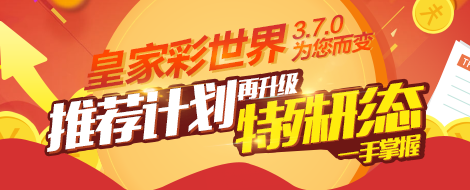
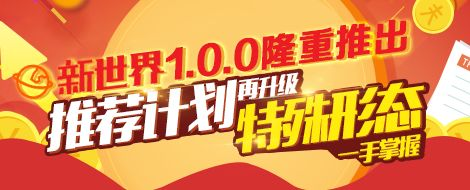
chang efor web

diff --git a/src/view/common/footer.html b/src/view/common/footer.html
@@ -2,14 +2,14 @@
     <div class="hj_public_foot_d">
         <div class="hj_public_foot_d1">
             <div class="leftContent">
-                <i>皇家彩世界</i>
+                <i>新世界</i>
                 <div class="leftContent_d">
                     <div class="lc_d">
                         <span class="lc_name">關于我們：</span>
                         <div class="lc_info">
-                            <a href="/official/193" rel="nofollow">免责声明</a>
-                            <a href="/official/194" rel="nofollow">法律声明</a>
-                            <a href="/help/" target="_blank">帮助中心</a>
+                            <a rel="nofollow">免责声明</a>
+                            <a rel="nofollow">法律声明</a>
+                            <a target="_blank">帮助中心</a>
                         </div>
                         <div class="hj_public_clearBoth"></div>
                     </div>
@@ -17,23 +17,23 @@
                         <span class="lc_name">相關産品：</span>
                         <div class="lc_info">
                             <a href="/zhibo/" target="_blank">開獎直播</a>
-                            <a href="/software/" target="_blank">軟件中心</a>
-                            <a href="/map.html" target="_blank">網站地圖</a>
+                            <a>軟件中心</a>
+                            <a>網站地圖</a>
                         </div>
                         <div class="hj_public_clearBoth"></div>
                     </div>
 
-                    <div class="lc_d">
-                        <span class="lc_name">交&nbsp;流&nbsp;群：</span>
-                        <div class="lc_info">
-                            <span>329235586</span>
-                            <span>220634190</span>
-                            <span>284202968</span>
-                            <span>98470270</span>
-                            <span>235983757<a href="http://shang.qq.com/wpa/qunwpa?idkey=87c5bcb73f504d114adcacdf867065d5f2fe749aae312b9b0a905e4956d6e3b0" rel="nofollow">加入</a></span>
-                        </div>
-                        <div class="hj_public_clearBoth"></div>
-                    </div>
+                    <!--<div class="lc_d">-->
+                        <!--<span class="lc_name">交&nbsp;流&nbsp;群：</span>-->
+                        <!--<div class="lc_info">-->
+                            <!--<span>329235586</span>-->
+                            <!--<span>220634190</span>-->
+                            <!--<span>284202968</span>-->
+                            <!--<span>98470270</span>-->
+                            <!--<span>235983757<a href="http://shang.qq.com/wpa/qunwpa?idkey=87c5bcb73f504d114adcacdf867065d5f2fe749aae312b9b0a905e4956d6e3b0" rel="nofollow">加入</a></span>-->
+                        <!--</div>-->
+                        <!--<div class="hj_public_clearBoth"></div>-->
+                    <!--</div>-->
                 </div>
             </div>
         </div>
@@ -60,29 +60,29 @@
                 </ul>
                 <div class="hj_public_clearBoth"></div>
             </div>
-            <div class="foot_d2_content">
-                <div class="Contact">
-                    <div class="PhoneNumber">
+            <!--<div class="foot_d2_content">-->
+                <!--<div class="Contact">-->
+                    <!--<div class="PhoneNumber">-->
 
-                        <p>國內: <span>400-654-9200</span></p>
-                        <p>境外: <span>00852-62104572</span></p>
-                    </div>
-                    <div class="time">
-                        <p>12小時尊貴服務</p>
-                        <p class="t_text">周一至周日: 9:30-凌晨02:00</p>
-                    </div>
-                </div>
-                <div class="rightContent">
-                    <a onclick="javascript:window.open('http://wpa.b.qq.com/cgi/wpa.php?ln=1&key=XzkzODE3MTczOF8zNzU4NzBfNDAwNjU0OTIwMF8yXw', '_blank', 'height=502, width=644,toolbar=no,scrollbars=no,menubar=no,status=no');" href="javascript:void(0);">
-                        <img src="/images/headfoot/hj_public_qq.jpg" alt="" />
-                    </a>
-                    <!-- BEGIN ProvideSupport.com Text Chat Link Code -->
+                        <!--<p>國內: <span>400-654-9200</span></p>-->
+                        <!--<p>境外: <span>00852-62104572</span></p>-->
+                    <!--</div>-->
+                    <!--<div class="time">-->
+                        <!--<p>12小時尊貴服務</p>-->
+                        <!--<p class="t_text">周一至周日: 9:30-凌晨02:00</p>-->
+                    <!--</div>-->
+                <!--</div>-->
+                <!--<div class="rightContent">-->
+                    <!--<a onclick="javascript:window.open('http://wpa.b.qq.com/cgi/wpa.php?ln=1&key=XzkzODE3MTczOF8zNzU4NzBfNDAwNjU0OTIwMF8yXw', '_blank', 'height=502, width=644,toolbar=no,scrollbars=no,menubar=no,status=no');" href="javascript:void(0);">-->
+                        <!--<img src="/images/headfoot/hj_public_qq.jpg" alt="" />-->
+                    <!--</a>-->
+                    <!--&lt;!&ndash; BEGIN ProvideSupport.com Text Chat Link Code &ndash;&gt;-->
 
-                    <!-- END ProvideSupport.com Text Chat Link Code -->
-                    <!-- WPA Button Begin -->
-                    <!-- WPA Button End -->
-                </div>
-            </div>
+                    <!--&lt;!&ndash; END ProvideSupport.com Text Chat Link Code &ndash;&gt;-->
+                    <!--&lt;!&ndash; WPA Button Begin &ndash;&gt;-->
+                    <!--&lt;!&ndash; WPA Button End &ndash;&gt;-->
+                <!--</div>-->
+            <!--</div>-->
         </div>
         <div class="hj_public_clearBoth"></div>
     </div>

diff --git a/src/view/index.html b/src/view/index.html
@@ -4,7 +4,7 @@
 <head>
     <title><%= include ./src/view/common/name.html =%>_北京赛车_pk10_北京赛车pk10开奖直播_北京赛车pk10开奖视频_北京赛车pk10开奖历史_开奖路珠走势_数据走势图_交流论坛</title>
     <meta name="keywords" content="<%= include ./src/view/common/name.html =%>，北京赛车pk10，北京赛车pk10技巧，北京赛车pk10技巧心得，北京赛车pk10开奖直播" />
-    <meta name="description" content="<%= include ./src/view/common/name.html =%>为彩民提供北京赛车pk10技巧,心得,开奖直播数据,还提供重庆时时彩、广东快乐十分、江西时时彩、新疆时时彩、天津时时彩、广东11选5、十一运夺金、江西11选5、快乐8等数据." />
+    <meta name="description" content="<%= include ./src/view/common/name.html =%>为彩民提供北京赛车pk10技巧,心得,开奖直播数据,还提供重庆时时彩、广东快乐十分、广东11选5、十一运夺金、快乐8等数据." />
 
     <meta name="baidu-site-verification" content="xA8Iz47tq9" />
 
@@ -45,7 +45,7 @@
                         <a href="/shishicai/" class="hotColorSpeed"><b><i class="hotIcon"></i>重庆时时彩</b></a>
                         <!-- <a href="/jsk3/"><b>江苏骰宝(快3)</b></a> -->
                         <a href="/xyft/"><b>幸运飞艇</b></a>
-                        <a href="/jxssc/"><b>江西时时彩</b></a>
+                        <!--<a href="/jxssc/"><b>江西时时彩</b></a>-->
                         <a href="/xync/"><b>幸运农场</b></a>
                         <a href="/shssl/"><b>上海时时乐</b></a>
                         <a href="/sdc/"><b>圣地彩</b></a>
@@ -322,19 +322,19 @@
                 <div id="caishijie_index_gpc" class="w245"></div>
                 <div id="caishijie_index_soft_s_bottom" class="sw245s" style="padding-top: 9px"></div>
             </div>
-            <div class="code">
-                <div class="img">
-                    <img src="/images/gzpt.png" />
-                </div>
-                <div class="text">
-                    <a href="/jiqiao/pk10/62886.html" target="_blank">
-                        <p>
-                            彩世界微信公众平台
-                        </p>
-                    </a>
-                    <span>高频彩数据查询、分析与预测工具，关注即免费使用！</span>
-                </div>
-            </div>
+            <!--<div class="code">-->
+                <!--<div class="img">-->
+                    <!--<img src="/images/gzpt.png" />-->
+                <!--</div>-->
+                <!--<div class="text">-->
+                    <!--<a href="/jiqiao/pk10/62886.html" target="_blank">-->
+                        <!--<p>-->
+                            <!--彩世界微信公众平台-->
+                        <!--</p>-->
+                    <!--</a>-->
+                    <!--<span>高频彩数据查询、分析与预测工具，关注即免费使用！</span>-->
+                <!--</div>-->
+            <!--</div>-->
         </div>
         <div class="clear">
         </div>

diff --git a/src/view/zhibo/index.html b/src/view/zhibo/index.html
@@ -27,7 +27,7 @@
 <div class="body-content">
     <div class="zhibo-title">
         <div class="name">
-            皇家开奖直播频道
+            <%= include ./src/view/common/name.html =%>开奖直播频道
         </div>
         <div class="share">
             <div>分享到：</div>
@@ -253,7 +253,7 @@
             <div class="detail">
                 <a href="/pk10/shipin/" target="_blank" class="lot-name">北京赛车PK10</a>
                 <div class="synopsis">
-                    北京赛车PK10开奖直播视频由香港皇家科技独立开发，开奖结果获取速度快、画面精美、过程刺激，并提供彩世界独家的精准PK10数据分析。
+                    北京赛车PK10开奖直播视频由<%= include ./src/view/common/name.html =%>独立开发，开奖结果获取速度快、画面精美、过程刺激，并提供彩世界独家的精准PK10数据分析。
                 </div>
                 <a href="/pk10/shipin/" target="_blank" class="play" title="北京赛车PK10开奖直播视频">观看开奖</a>
                 <span>距离下期开奖</span><span class="pk10-time time"></span><span>秒</span>
@@ -537,7 +537,7 @@
     <div class="zhibo-virtue">
         <div class="title"><%= include ./src/view/common/name.html =%>开奖直播四大优点：</div>
         <div class="span1">
-            皇家拥有十五年博彩行业程式、软件、数据开发经验，拥有一流的开发技术，迭代更新及时
+            <%= include ./src/view/common/name.html =%>拥有十五年博彩行业程式、软件、数据开发经验，拥有一流的开发技术，迭代更新及时
         </div>
         <div class="span2">
             不仅仅只是开奖直播视频，还是一个数据参考及时工具，部分彩种直播还可模拟开奖结果
@@ -546,7 +546,7 @@
             各彩种开奖直播视频画面精美，播放速度流畅，任何一个像素都是精品
         </div>
         <div class="span4">
-            皇家独家技术支撑，数据读取数据快，开奖结果早知道
+            <%= include ./src/view/common/name.html =%>独家技术支撑，数据读取数据快，开奖结果早知道
         </div>
     </div>
 </div>

diff --git a/src/view/common/navMenu.html b/src/view/common/navMenu.html
@@ -21,10 +21,9 @@
         <li>
             <a href="/zhibo/" id="nav06">开奖直播</a>
         </li>
-
-        <li>
-            <a href="http://www.1396mm.com" rel="nofollow" target="_blank" rel="nofollow" id="nav07">博世界</a>
-        </li>
+        <!--<li>-->
+            <!--<a href="http://www.1396mm.com" rel="nofollow" target="_blank" rel="nofollow" id="nav07">博世界</a>-->
+        <!--</li>-->
         <!-- <li style="position: relative; z-index: 999;" id="navklc">
             <img src="/images/stat/newicon02.png" style="position: absolute;right: 7px;top: 4px;" />
             <a href="http://www.1396klc.com/" class="soft rear" style="width: 117px;" target="_blank">皇家快乐彩 </a>
@@ -72,12 +71,12 @@
                     <img src="/images/nav/gdkl10.png" alt="广东快乐十分"/></i>
                 <b class="web_colorSpeedFont"><i class="web_colorSpeedHot"></i>广东快乐十分</b>
             </span>
-            <span class="web_colorSpeedLi">
-                <a href="/jxssc/"></a>
-                <i class="web_colorSpeedIcon">
-                    <img src="/images/nav/jxssc.png" alt="江西时时彩"/></i>
-                <b class="web_colorSpeedFont">江西时时彩</b>
-            </span>
+            <!--<span class="web_colorSpeedLi">-->
+                <!--<a href="/jxssc/"></a>-->
+                <!--<i class="web_colorSpeedIcon">-->
+                    <!--<img src="/images/nav/jxssc.png" alt="江西时时彩"/></i>-->
+                <!--<b class="web_colorSpeedFont">江西时时彩</b>-->
+            <!--</span>-->
             <!-- <span class="web_colorSpeedLi">
                 <a href="/tjssc/"></a>
                 <i class="web_colorSpeedIcon">

diff --git a/src/view/pk10/luzhulonghu/index.html b/src/view/pk10/luzhulonghu/index.html
@@ -1,9 +1,9 @@
 <!DOCTYPE HTML>
 <html xmlns:v="urn:schemas-microsoft-com:vml">
 <head>
-    <title>【北京赛车pk10龙虎路珠_龙虎路珠皇家彩】-<%= include ./src/view/common/name.html =%></title>
-    <meta name="keywords" content="北京赛车pk10龙虎路珠,龙虎路珠皇家彩" />
-    <meta name="description" content="<%= include ./src/view/common/name.html =%>龙虎路珠频道专门为北京赛车PK10的玩家提供专业的北京赛车pk10龙虎路珠数据,龙虎路珠皇家彩、开奖直播视频以及独家的免费推荐、淘宝模式,不必担心因为没有PK10技巧而产生困扰,为您一站解决购彩的烦恼" />
+    <title>【北京赛车pk10龙虎路珠_龙虎路珠<%= include ./src/view/common/name.html =%>】-<%= include ./src/view/common/name.html =%></title>
+    <meta name="keywords" content="北京赛车pk10龙虎路珠,龙虎路珠<%= include ./src/view/common/name.html =%>彩" />
+    <meta name="description" content="<%= include ./src/view/common/name.html =%>龙虎路珠频道专门为北京赛车PK10的玩家提供专业的北京赛车pk10龙虎路珠数据,龙虎路珠<%= include ./src/view/common/name.html =%>彩、开奖直播视频以及独家的免费推荐、淘宝模式,不必担心因为没有PK10技巧而产生困扰,为您一站解决购彩的烦恼" />
     <meta http-equiv="X-UA-Compatible" content="IE=7">
     <meta name="baidu-site-verification" content="EDEMDIk3AI" />
     <%= include ./src/view/common/link.html =%>

diff --git a/src/view/gdkl10/index.html b/src/view/gdkl10/index.html
@@ -2,7 +2,7 @@
 <!DOCTYPE HTML>
 <html xmlns:v="urn:schemas-microsoft-com:vml">
 <head>
-    <title>【广东快乐十分开奖记录_广东快乐十分历史记录】-皇家彩世界</title>
+    <title>【广东快乐十分开奖记录_广东快乐十分历史记录】-<%= include ./src/view/common/name.html =%></title>
     <meta name="keywords" content="广东快乐十分开奖记录,广东快乐十分历史记录" />
     <meta name="description" content="广东快乐十分开奖记录专门为广东快乐十分的玩家提供专业的广东快乐十分开奖记录,广东快乐十分历史记录这里有专业的开奖数据统计、开奖直播视频以及独家的免费参考、淘宝模式,不必担心因为没有时时彩技巧而产生困扰,为您一站解决购彩的烦恼" />
     <meta http-equiv="X-UA-Compatible" content="IE=7">

diff --git a/src/view/fc3d/chartposition/index.html b/src/view/fc3d/chartposition/index.html
@@ -51,7 +51,7 @@
     <div id="caishijie_bottom" class="business"></div>
 
     <div class="ad_small_banner" id="caishijie_bottom_leftright"></div>
-    <div  class="web_winner"><span>敬告用户：</span>除皇家产品外，本站所刊登广告的网站和内容一概与本站无关，用户须自行判断广告网站的真实性，由此所产生的后果本公司概不负责！</div>
+    <!--<div  class="web_winner"><span>敬告用户：</span>除皇家产品外，本站所刊登广告的网站和内容一概与本站无关，用户须自行判断广告网站的真实性，由此所产生的后果本公司概不负责！</div>-->
 </div>
 
 <%= include ./src/view/common/footer.html =%>

diff --git a/src/view/fc3d/chartsum/index.html b/src/view/fc3d/chartsum/index.html
@@ -51,7 +51,7 @@
     <div id="caishijie_bottom" class="business"></div>
 
     <div class="ad_small_banner" id="caishijie_bottom_leftright"></div>
-    <div  class="web_winner"><span>敬告用户：</span>除皇家产品外，本站所刊登广告的网站和内容一概与本站无关，用户须自行判断广告网站的真实性，由此所产生的后果本公司概不负责！</div>
+    <!--<div  class="web_winner"><span>敬告用户：</span>除皇家产品外，本站所刊登广告的网站和内容一概与本站无关，用户须自行判断广告网站的真实性，由此所产生的后果本公司概不负责！</div>-->
 </div>
 
 <%= include ./src/view/common/footer.html =%>

diff --git a/src/view/gd11x5/zoushitu/index.html b/src/view/gd11x5/zoushitu/index.html
@@ -39,7 +39,7 @@
     <div id="caishijie_bottom" class="business"></div>
 
     <div class="ad_small_banner" id="caishijie_bottom_leftright"></div>
-    <div  class="web_winner"><span>敬告用户：</span>除皇家产品外，本站所刊登广告的网站和内容一概与本站无关，用户须自行判断广告网站的真实性，由此所产生的后果本公司概不负责！</div>
+    <!--<div  class="web_winner"><span>敬告用户：</span>除皇家产品外，本站所刊登广告的网站和内容一概与本站无关，用户须自行判断广告网站的真实性，由此所产生的后果本公司概不负责！</div>-->
 </div>
 
 <%= include ./src/view/common/footer.html =%>

diff --git a/src/view/pl3/chart/index.html b/src/view/pl3/chart/index.html
@@ -51,7 +51,7 @@
     <div id="caishijie_bottom" class="business"></div>
 
     <div class="ad_small_banner" id="caishijie_bottom_leftright"></div>
-    <div  class="web_winner"><span>敬告用户：</span>除皇家产品外，本站所刊登广告的网站和内容一概与本站无关，用户须自行判断广告网站的真实性，由此所产生的后果本公司概不负责！</div>
+    <!--<div  class="web_winner"><span>敬告用户：</span>除皇家产品外，本站所刊登广告的网站和内容一概与本站无关，用户须自行判断广告网站的真实性，由此所产生的后果本公司概不负责！</div>-->
 </div>
 
 <%= include ./src/view/common/footer.html =%>

diff --git a/src/view/pl3/chartposition/index.html b/src/view/pl3/chartposition/index.html
@@ -51,7 +51,7 @@
     <div id="caishijie_bottom" class="business"></div>
 
     <div class="ad_small_banner" id="caishijie_bottom_leftright"></div>
-    <div  class="web_winner"><span>敬告用户：</span>除皇家产品外，本站所刊登广告的网站和内容一概与本站无关，用户须自行判断广告网站的真实性，由此所产生的后果本公司概不负责！</div>
+    <!--<div  class="web_winner"><span>敬告用户：</span>除皇家产品外，本站所刊登广告的网站和内容一概与本站无关，用户须自行判断广告网站的真实性，由此所产生的后果本公司概不负责！</div>-->
 </div>
 
 <%= include ./src/view/common/footer.html =%>

diff --git a/src/view/pl3/chartsum/index.html b/src/view/pl3/chartsum/index.html
@@ -51,7 +51,7 @@
     <div id="caishijie_bottom" class="business"></div>
 
     <div class="ad_small_banner" id="caishijie_bottom_leftright"></div>
-    <div  class="web_winner"><span>敬告用户：</span>除皇家产品外，本站所刊登广告的网站和内容一概与本站无关，用户须自行判断广告网站的真实性，由此所产生的后果本公司概不负责！</div>
+    <!--<div  class="web_winner"><span>敬告用户：</span>除皇家产品外，本站所刊登广告的网站和内容一概与本站无关，用户须自行判断广告网站的真实性，由此所产生的后果本公司概不负责！</div>-->
 </div>
 
 <%= include ./src/view/common/footer.html =%>
